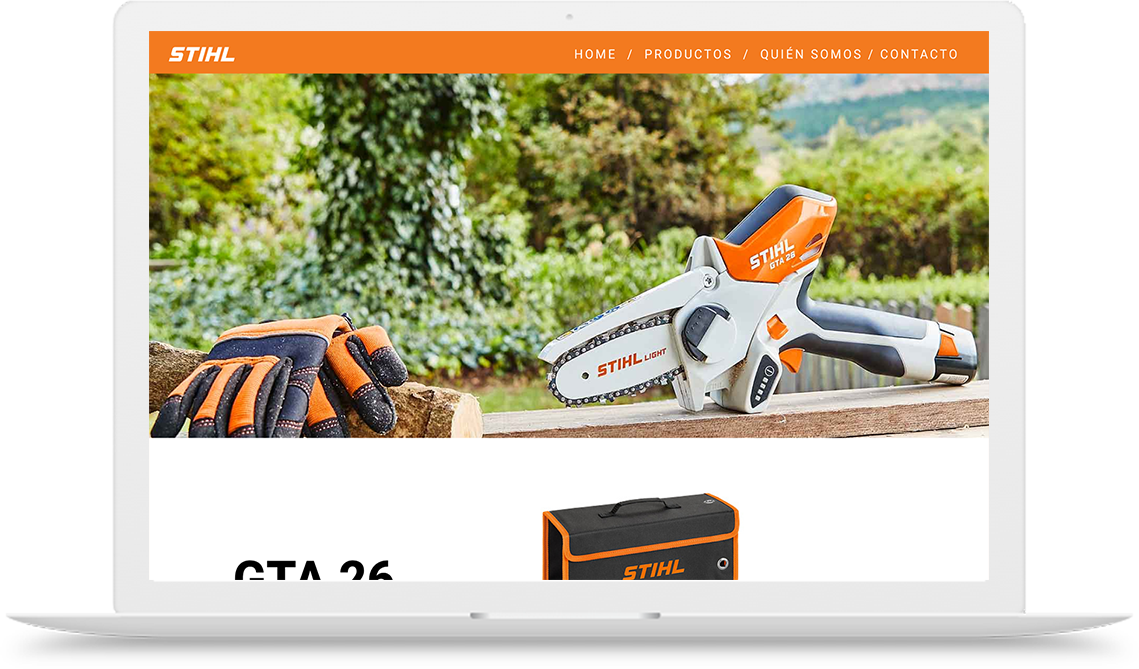
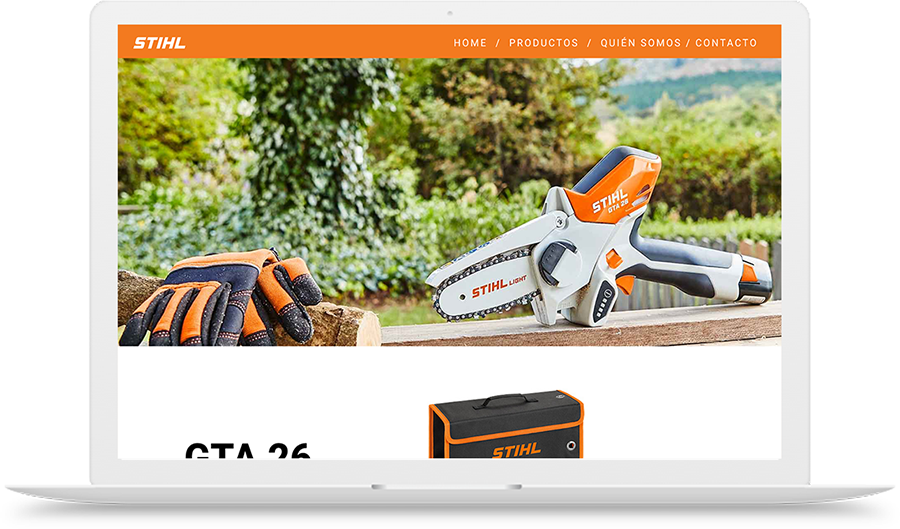
correciones menores en la seccion principal del index

diff --git a/assets/css/style.css b/assets/css/style.css
@@ -43,6 +43,7 @@
 .fuente__negra {
   color: #1a1a1a; }
 
+/* ----- mixin ----- */
 .contacto__conoce {
   display: flex;
   justify-content: space-around;
@@ -252,12 +253,8 @@
   font-size: 15px; }
 
 .seccion__principal {
-  /*     height: 80wv; */
   min-height: 250px;
-  max-height: 650px;
-  /* margin-right: 100px; */ }
-  .seccion__principal__fondo {
-    /* clip-path: polygon(100% 0, 100% 90%, 65% 100%, 0 90%, 0 0); */ }
+  max-height: 650px; }
   .seccion__principal__text {
     max-width: 450px;
     margin: 0px 0px 0px 250px;

diff --git a/index.html b/index.html
@@ -71,6 +71,9 @@
                         <img src="assets/img/presentacion_index.png" class="seccion__principal__img img-fluid animate__animated animate__fadeInRight animate__delay-1s	" alt="presentación">
                     </div>
                 </div>
+            </div>
+            
+            
         </article>
         <!-- Sección pasos de la web -->
 

diff --git a/sass/components/_seccionprincipal.scss b/sass/components/_seccionprincipal.scss
@@ -1,11 +1,9 @@
 .seccion__principal{
-    /*     height: 80wv; */
+    
         min-height: 250px;
         max-height: 650px;
-        /* margin-right: 100px; */
-        &__fondo{
-                /* clip-path: polygon(100% 0, 100% 90%, 65% 100%, 0 90%, 0 0); */
-        }
+        
+
     
         
         

diff --git a/sass/utilities/_clasesrapidas.scss b/sass/utilities/_clasesrapidas.scss
@@ -49,6 +49,8 @@
     color: #1a1a1a;
 }
 
+/* ----- mixin ----- */
+
 @mixin dflex-row{
     display:flex;
     flex-direction:row;
